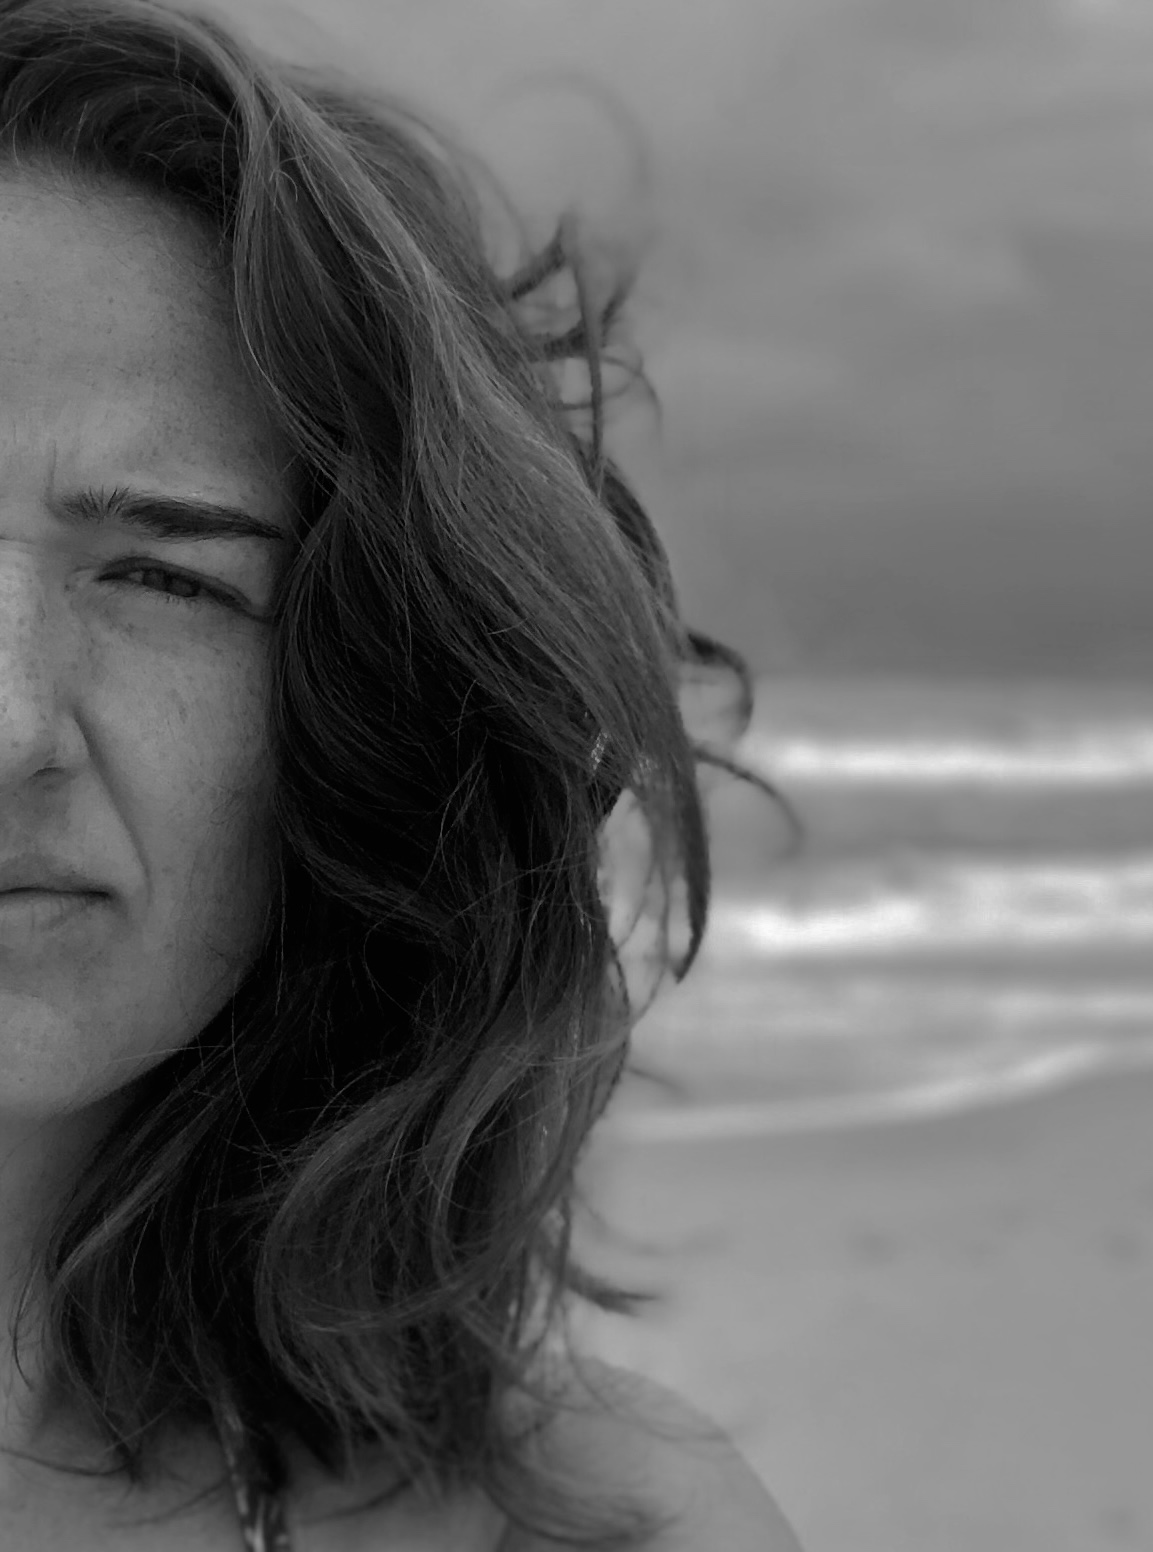
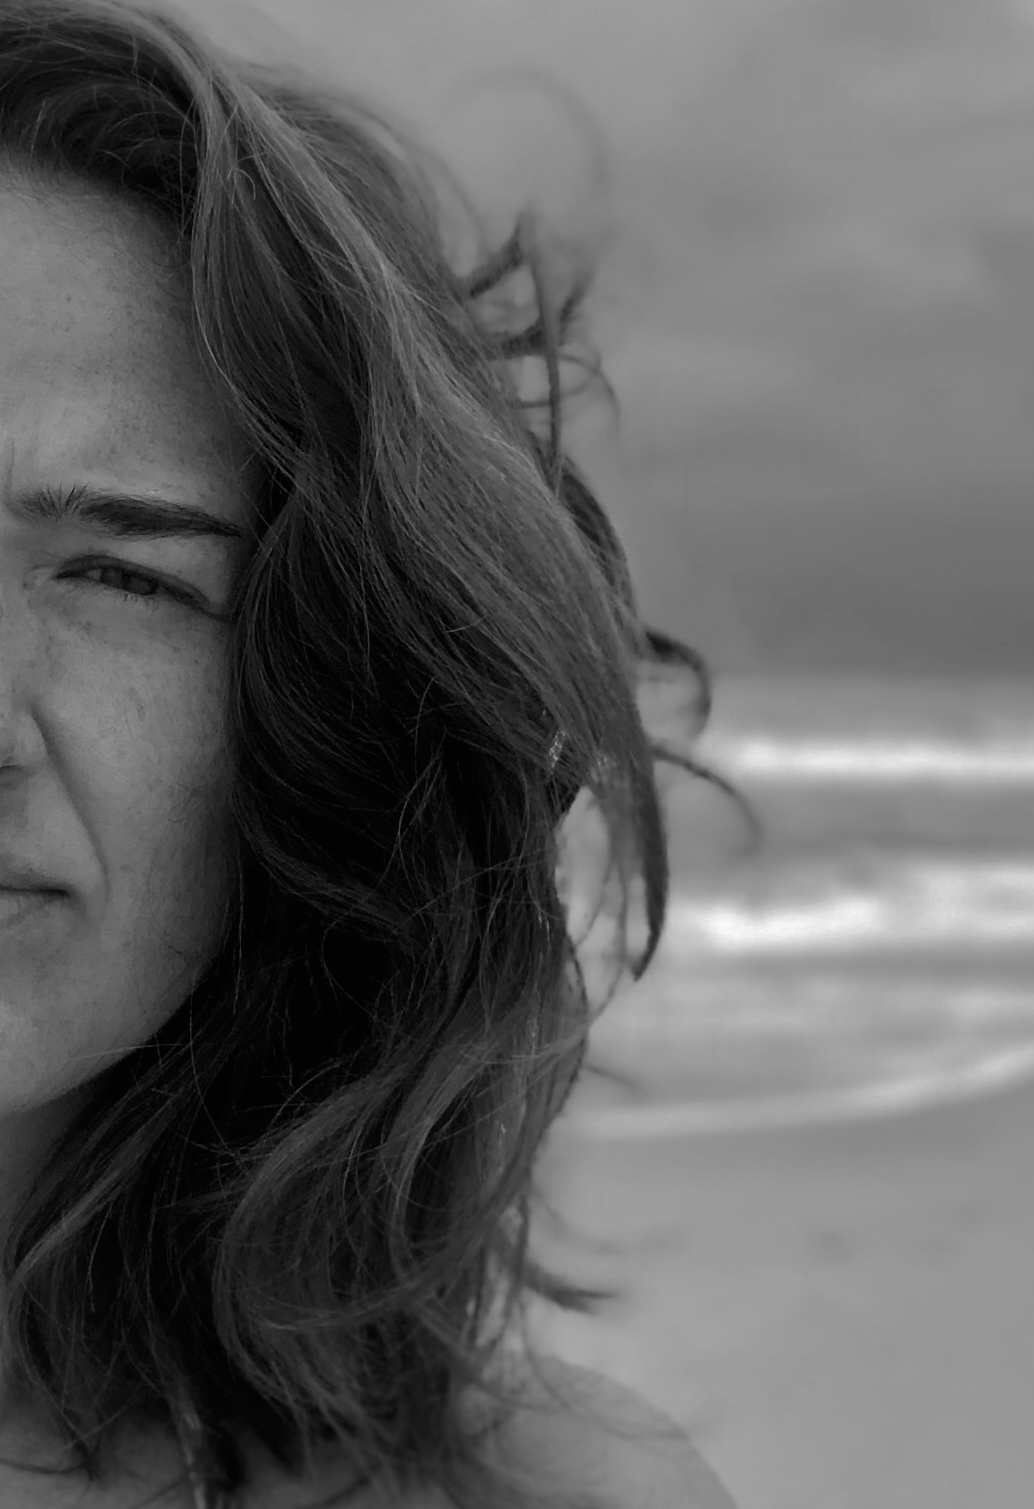
01/25

diff --git a/_posts/2022-06-01-ah,-o-romance.md b/_posts/2022-06-01-ah,-o-romance.md
@@ -47,15 +47,15 @@ descompassado
 
 <hr>
 sonho contigo
-<br> [ fixando o meu olhar pela janela
+<br> fixando o meu olhar pela janela
 <br> a imaginação se perde
 <br> dois caminhos se cruzam:
 <br> reconheço a sua presença – você a minha ]
-<br> [ pousando o meu olhar no seu
+<br> pousando o meu olhar no seu
 <br> as cortinas se abrem
 <br> uma valsa carrega o meu sentir
 <br> minha mão na sua – a sua na minha ]
-<br> [ encerrando o meu olhar em sonhos
+<br> encerrando o meu olhar em sonhos
 <br> cenários se desenham
 <br> e uma noite estrelada anuncia:
 <br> eu com você – você comigo ]
@@ -113,32 +113,30 @@ um poema sobre um poema
 <br> o pássaro-sentimento agora voa 
 <br> e por todo lado e deslado
 <br> seu canto marcante entoa
-<br> já o poema não declamado...
+<br> já o poema não declamado ...
 <br> esse ainda é aguardado
 <br>
 <br>
 
 <hr>
-(tempo e encontro)
-<br> 
-<br> o dia e a noite convidam a dançar
+o dia e a noite convidam a dançar
 <br> mas os ponteiros do relógio são espectadores
-<br> invisíveis, presentes – categóricos ou dissimulados
-<br> há um fascínio, desejo de controlar
-<br> mas à espreita, sorrateira
+<br> invisíveis, presentes. categóricos ou dissimulados
+<br> e há um fascínio, desejo de controlar
+<br> mas à espreita (sorrateira)
 <br> é a passagem infinita que conduz
-<br> feito água e ar, as mãos não podem agarrar
+<br> (feito água e ar, as mãos não podem agarrar
 <br> fechar os olhos e correr – para nunca alcançar
-<br> fechar os olhos para esquecer – e nunca para trás deixar
+<br> fechar os olhos para esquecer – e nunca para trás deixar)
 <br> mas nesse ciclo manifesto, aparentemente certo
 <br> há um elemento que escapa
-<br> e delicadamente faz o tempo titubear
-<br> perceber-se diante de alguém
-<br> um encontro – sem aviso
-<br> dois pares de braços em um enlace
+<br> e delicadamente faz o tempo titubear:
+<br> perceber-se diante de alguém,
+<br> um encontro sem aviso
+<br> (dois pares de braços em um enlace
 <br> mergulho nos olhos que te encaram
 <br> conversa calada pela lua iluminada
-<br> paradoxo não resolvido, resolvido
+<br> paradoxo não resolvido, resolvido)
 <br> e nesta fração de segundo eterna
 <br> o cônscio instante hipnotizante:
 <br> momentos de uma nova dança
@@ -159,8 +157,9 @@ dança
 <br>
 
 <hr>
-eu queria, pensando agora que se foi, ter tirado um retrato dele. não seria um problema explicar essa vontade, nem a mim mesma, portanto sem necessidade de esconder a motivação em desculpas, nem para ele, caso quisesse saber. era a sua beleza. a postura de quem muito já viveu, a serenidade daqueles que sabem melhor como a vida deve ser vivida, em um corpo tão jovem e um rosto com traços simétricos. uma presença que se basta, mas que aprecia e busca o compartilhamento – em suas duas vias. havia, no entanto, um exato ponto que denunciava a ingenuidade daqueles de sua idade, e que abria as janelas que evidenciavam suas incertezas. ficava entre o sorriso discreto (que, com o olhar que o acompanhava, sem intenção, me desafiava) e o riso solto (que me fazia sorrir também). aquele ponto não admitia variação em suas dimensões exatas e por isso era tão raro de se perceber, e tanto tempo me tomou a perceber.
-<br> pergunto-me, inclusive, se fui a única a ver através delas.
+[
+<br>eu queria, pensando agora que se foi, ter tirado um retrato dele. 
+<br>não seria um problema explicar essa vontade, nem a mim mesma, portanto sem necessidade de esconder a motivação em desculpas, nem para ele, caso quisesse saber. era a sua beleza. a postura de quem muito já viveu, a serenidade daqueles que sabem melhor como a vida deve ser vivida, em um corpo tão jovem e um rosto com traços simétricos. uma presença que se basta, mas que aprecia e busca o compartilhamento – em suas duas vias. <br>havia, no entanto, um exato ponto que denunciava a ingenuidade daqueles de sua idade, e que abria as janelas que evidenciavam suas incertezas: ficava entre o sorriso discreto (que, com o olhar que o acompanhava, sem intenção, me desafiava) e o riso solto (que me fazia sorrir também). tal ponto não admitia variação em suas dimensões exatas e por isso era tão raro de se perceber – e tanto me tomou a perceber. pergunto-me, inclusive, se fui a única a ver através daquelas janelas.
 <br>
 <br>
 

diff --git a/_pages/about.md b/_pages/about.md
@@ -10,9 +10,9 @@ permalink: /
 
 profile:
   align: right
-  image: profile-b&w-2.jpg #profile-ana.jpg
+  image: profile-b&w.jpg #profile-ana.jpg
   image_circular: false # crops the image to make it circular
-  address: <span style="font-size:13.5px">-</span> # <br> &ensp; look angry, but i'm super nice
+  address: <span style="font-size:13px">.</span> # <br> &ensp; look angry, but i'm super nice
     # <p>Your City, State 12345</p>
 
 news: false  # includes a list of news items
